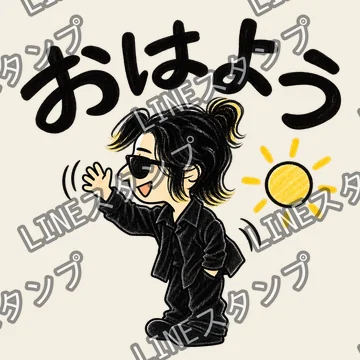
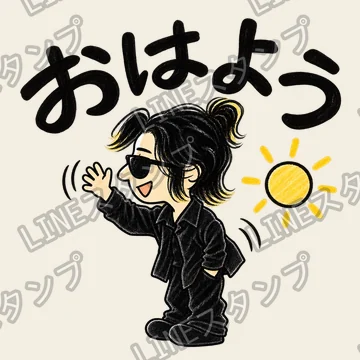
SUZURI の札を店にし、透かしを薄くし、LINEの欄が何を集めているか言うようにした (#707)
* LINEスタンプの透かしは、読める範囲でいちばん薄くする

あやと（2026-10-08）「LINEスタンプの透かしが濃すぎる。薄くて良い」。

0.62 は絵のほうが負けていた。0.62 / 0.45 / 0.35 / 0.25 / 0.18 で焼いて
並べ、100%（360px）と面に出る 150px の両方で「LINEスタンプ」が読める
いちばん薄いところとして 0.30 にした。0.25 より下は 150px で字が地に沈み、
見た人には汚れにしか見えない——透かしは「取ったものがそのまま使えない」
ためのものなので、読めなくなった時点で薄いのではなく効いていない。

対照（`drill()`）は、薄くしたぶんそのままでは意味を失う。白地で動く画素の
割合は**字の形**で決まるので、INK 0.1 でも 0.9 でも 0.10〜0.13 のまま動かず、
割合だけを見る対照は透かしをいくら薄くしても通ってしまう。濃さは別の数
——動いた画素1つあたりの差の平均——に出るので、そちらを足して幅で挟んだ。
しきい値 24 は下げない。下げると、ほとんど動いていない画素まで数えて、
透かしの載っていない絵が素通りする。

元の絵そのものを両側に当てる足も足した。平らな白だけで見ていると、
「0 と出る」のが地の平らさのおかげなのか判定が効いているからなのかが
分からない。

Claude-Session: https://claude.ai/code/session_01LuEuARCBiX8w9R3CwPpCH6

* SUZURI の札が指すものを、商品から店そのものに変える

あやと（2026-10-08、2回目）「だからイギリストートバッグだけじゃないよ。
そのリンク。」

1回目は「トートバッグのほかに、キャラクターのグッズもあります。」という字を
足して終わっていた。**札の題は「イギリスのトートバッグ」のままで、写真も
トート1枚。** 字で否定して、絵で肯定していた。読む人が先に見るのは絵と題
なので、字に何と書いてあっても「トートバッグ1枚の店」に見える。

題を店（あやとの店）に変え、写真を2枚にした。2枚目は SUZURI 自身が作って
いる店の絵の右側だけを切ったもので、**よその会社のマークが入る左半分は
切り落としてある。** 品ぞろえも値段も個数も、字にはしない——どれも向こうが
持っていて、焼けば変わった日から嘘になる。「4種類あります」も同じ理由で
書かない。

枚数は決め打ちにしない。`shots` に1行足せば並ぶようにしてある。
PC では写真が板の幅いっぱい（403px角）に伸びて同じ面のほかの札より大きく
なったので、幅に上限を置いた。店は主役ではない。

Claude-Session: https://claude.ai/code/session_01LuEuARCBiX8w9R3CwPpCH6

* LINEスタンプの欄が、何を集めているのかを言っていなかった

あやと（2026-10-08、#701）「一旦住人は25人で良い。あやとを+4にするために
みんなの意見を集めてるフェーズ。」

頭が「あやとの11枚。どれがいいか、押して教えてください。」だったので、
**11枚の中から選ぶ話**にしか読めなかった。いいねも「ほかのセリフを出す」の
付箋ももう出ているのに、それが何のために在るのかが画面に無い。

頭を「あと◯つ、セリフが決まっていません」から始めて、押すことと出すことの
[…]

diff --git a/site/content/goods.ts b/site/content/goods.ts
@@ -190,28 +190,78 @@ export const LINE_STAMPS: LineStamp[] = [
 export const LINE_WORDS = LINE_STAMPS.map((s) => s.line);
 
 /**
+ * あやとのぶんを、最後に何枚にするか。
+ *
+ * あやとの言葉（2026-10-08、#701）:
+ *
+ * > 一旦住人は25人で良い。あやとを+4にするためにみんなの意見を集めてるフェーズ。
+ *
+ * **募集している枚数を手で書かない。** 「あと4つ」と面に焼くと、絵が1枚
+ * 届いた日から嘘になる（`LINE_STAMPS` は増えるのに、4 は誰も直さない）。
+ * ここに**行き先の数**だけを置いて、残りは `LINE_WANT - LINE_STAMPS.length`
+ * で出す。1枚足せば勝手に3になり、埋まれば勝手に0になる。
+ *
+ * **住人のぶんは、ここには入れない。** この面が集めているのは
+ * あやとのセリフだけで、合計が何枚になるかは読む人の用事ではない。
+ */
+export const LINE_WANT = 15;
+
+/**
+ * SUZURI の店の写真1枚。
+ *
+ * **1枚でも「その1枚しか無い店」に見えないように、2枚以上並べる**（下）。
+ */
+export type ShopShot = {
+  src: string;
+  /** 読み上げと、絵が落ちたときに出る字。**品ぞろえを数えない** */
+  alt: string;
+  w: number;
+  h: number;
+};
+
+/**
  * SUZURI の店。**島の外へ出る。**
  *
- * サムネはあやとが選んだトートバッグの写真。
+ * ## 字で否定して、絵で肯定しない
  *
- * **品ぞろえも値段も書かない。** どちらも向こうが持っていて、こちらに
- * 焼くと変わった日から嘘になる（`docs/island-standards.md` 16章）。
- * 書いてよいのは、写真に写っているものと、押したら何が起きるかだけ。
+ * あやと（2026-10-08、**2回目**）: 「だからイギリストートバッグだけじゃないよ。
+ * そのリンク。」
+ *
+ * 1回目は「トートバッグのほかに、キャラクターのグッズもあります。」という字を
+ * 足しただけだった。**札の題は「イギリスのトートバッグ」のままで、写真もトート
+ * 1枚。** 読む人が先に見るのは絵と題なので、字が何と書いてあっても
+ * 「トートバッグ1枚の店」に見える。
+ *
+ * だから、札が指すものを**商品から店そのもの**に変えた。
+ * 題は店、写真は2枚以上。
+ *
+ * ## 品ぞろえも値段も個数も書かない
+ *
+ * どれも向こうが持っていて、こちらに焼くと変わった日から嘘になる
+ * （`docs/island-standards.md` 16章）。「4種類あります」も書かない——
+ * **1つ増えた日から嘘。** 書いてよいのは、写真に写っているものと、
+ * 押したら何が起きるかだけ。
  */
 export const SUZURI = {
   href: "https://suzuri.jp/ayato_arigato",
-  thumb: "/goods/suzuri-tote.webp",
-  w: 560,
-  h: 560,
-  /** 写真の中身。**見えているものだけを言う** */
-  cap: "イギリスのトートバッグ",
   /**
-   * 何が買えるか。
+   * 店に並んでいるもの。**2枚以上。1枚だと、その1枚しか無い店に見える。**
    *
-   * **品ぞろえも値段も書かない**——向こうが持っているので、焼くと変わった日から嘘になる。
-   * 書くのは「トートバッグだけではない」ことまで（あやと 2026-10-08
-   * 「スズリはトートバッグだけじゃなくてキャラクターのグッズとかも買えます」）。
-   * 写真が1枚だと、その1枚しか無い店に見える。
+   * 2枚目は SUZURI 自身が作っている店の絵（`og.suzuri.jp/users/2272949.webp`。
+   * 1200x630）の**右側だけ**を切ったもの（左上 669,102 ／ 右下 1126,559）。
+   * **左半分と、左上に出る印は切り落としてある**——よその会社のマークを
+   * 島の面に焼かない。
+   */
+  shots: [
+    { src: "/goods/suzuri-tote.webp", alt: "イギリスの地図が入ったトートバッグ", w: 560, h: 560 },
+    { src: "/goods/suzuri-goods.webp", alt: "キャラクターの缶バッジ・ステッカー・アクリルキーホルダー", w: 560, h: 560 },
+  ] satisfies ShopShot[],
+  /** 札の題。**商品ではなく、店そのもの** */
+  cap: "あやとの店",
+  /**
+   * 何が買えるか。**字はそのまま残す**（あやと 2026-10-08「スズリはトート
+   * バッグだけじゃなくてキャラクターのグッズとかも買えます」）。
+   * 直したのは、この字と食い違っていた**題と写真**のほう。
    */
   what: "トートバッグのほかに、キャラクターのグッズもあります。",
   /** 押したら何が起きるか */

diff --git a/site/app/goods/page.tsx b/site/app/goods/page.tsx
@@ -6,7 +6,7 @@ import Icon, { type IconName } from "@/components/ui/Icon";
 import Notes from "@/components/live/Notes";
 import PageShell, { PageHead } from "@/components/ui/PageShell";
 import StampVotes from "@/components/goods/StampVotes";
-import { LINE_STAMPS, LINE_WORDS, STICKERS, SUZURI } from "@/content/goods";
+import { LINE_STAMPS, LINE_WANT, LINE_WORDS, STICKERS, SUZURI } from "@/content/goods";
 
 import "./goods.css";
 
@@ -94,6 +94,14 @@ function Say({ theme, title, lead, omit }: {
     </div>
   );
 }
+
+/**
+ * あやとのセリフで、まだ決まっていない数。
+ *
+ * **手で書かない。** 絵が1枚届いた日に、面の「あと◯つ」だけが古くなる。
+ * 埋まったら 0 になって、募集の字そのものが消える。
+ */
+const LINE_LEFT = Math.max(0, LINE_WANT - LINE_STAMPS.length);
 
 export default function GoodsPage() {
   return (
@@ -214,8 +222,18 @@ export default function GoodsPage() {
           title="LINEスタンプ"
           tag="検討中"
           /* **「絵はこれから」と書かない。** 絵が届いたので、書いたままだと
-             その日から嘘になる。数は `LINE_STAMPS` から出す（足した日に直し忘れない） */
-          lead={`あやとの${LINE_STAMPS.length}枚。どれがいいか、押して教えてください。`}
+             その日から嘘になる。数は `LINE_STAMPS` から出す（足した日に直し忘れない）。
+
+             **何を集めている欄なのかを、頭で言う。** 「あやとの11枚。どれがいいか」
+             だけだと、11枚から選ぶ話にしか読めない。集めているのは、まだ決まって
+             いないぶんのセリフのほう（あやと #701）。
+             残りの数も手で書かない（`content/goods.ts` の `LINE_WANT`）。
+             埋まったら募集の字は出さない——0枚を募る字が残らないように */
+          lead={
+            LINE_LEFT > 0
+              ? `あと${LINE_LEFT}つ、セリフが決まっていません。いいと思ったものを押して、ほしい一言を出してください。`
+              : `あやとの${LINE_STAMPS.length}枚。いいと思ったものを押して教えてください。`
+          }
         >
           <StampVotes />
           <Say
@@ -239,25 +257,36 @@ export default function GoodsPage() {
               新しいタブで開いて、こちらの窓への参照は渡さない
               （`noopener`。`noreferrer` で、どこから来たかも渡さない）。
               `prefetch` の見張り（`prefetch_selftest.mjs`）は `<Link>` を
-              数えているので、外へ出るものは素の `<a>` のままにする */}
+              数えているので、外へ出るものは素の `<a>` のままにする。
+
+              **写真は横に並べて、題は店の名前。** 1枚だけ・題が商品名だと、
+              その商品1つしか無い店に見える（あやと 2026-10-08、2回目の指摘）。
+              枚数は決め打ちしない——`shots` に1行足せば並ぶ */}
           <a
-            className="gd-go gd-out"
+            className="gd-go gd-out gd-shop"
             href={SUZURI.href}
             target="_blank"
             rel="noopener noreferrer"
           >
-            <img
-              src={SUZURI.thumb}
-              alt=""
-              width={SUZURI.w}
-              height={SUZURI.h}
-              loading="lazy"
-            />
-            <span>
-              <b>{SUZURI.cap}</b>
-              <i>{SUZURI.note}</i>
+            <span className="gd-shopshots">
+              {SUZURI.shots.map((shot) => (
+                <img
+                  key={shot.src}
+                  src={shot.src}
+                  alt={shot.alt}
+                  width={shot.w}
+                  height={shot.h}
+                  loading="lazy"
+                />
+              ))}
             </span>
-            <Icon name="external" size={16} />
+            <span className="gd-shopside">
+              <span>
+                <b>{SUZURI.cap}</b>
+                <i>{SUZURI.note}</i>
+              </span>
+              <Icon name="external" size={16} />
+            </span>
           </a>
         </Sec>
       </div>

diff --git a/site/app/goods/goods.css b/site/app/goods/goods.css
@@ -125,15 +125,47 @@
 }
 .gd-go > svg { flex: none; }
 
-/* 外の店。写真を1枚だけ添える。**押すと出ていくことは印（external）が言う** */
-.gd-out > img {
-  flex: none;
-  width: 92px;
-  height: 92px;
+/* 外の店。**写真は横に並べる。**
+   1枚だけ添えていたころは、その1枚の商品しか無い店に見えていた
+   （あやと 2026-10-08、2回目の指摘）。
+   押すと出ていくことは印（external）が言う。 */
+.gd-shop {
+  flex-direction: column;
+  align-items: stretch;
+  gap: var(--sp-3);
+}
+
+/* 枚数は決め打ちしない。`auto-fit` なので、`shots` を増やしても
+   1行に収まるぶんだけ細くなる（2枚でも3枚でも同じ書き方で並ぶ） */
+.gd-shopshots {
+  display: grid;
+  grid-template-columns: repeat(auto-fit, minmax(0, 1fr));
+  gap: var(--sp-2);
+  /* PC では、写真が板の幅いっぱい（403px角）に伸びて、
+     同じ面のほかの札より大きくなっていた。**店は主役ではない。**
+     スマホ（390px）では板のほうが狭いので、ここは効かない */
+  max-width: 360px;
+}
+.gd-shopshots > img {
+  display: block;
+  width: 100%;
+  height: auto;
+  aspect-ratio: 1 / 1;
   border-radius: var(--r-0);
   object-fit: cover;
   background: var(--paper-2);
 }
+
+.gd-shopside {
+  display: flex;
+  align-items: center;
+  gap: var(--sp-3);
+}
+.gd-shopside > span {
+  flex: 1 1 auto;
+  min-width: 0;
+}
+.gd-shopside > svg { flex: none; }
 
 /* ---- ステッカー --------------------------------------------------------- */
 

diff --git a/tools/goods/stampbake.py b/tools/goods/stampbake.py
@@ -75,8 +75,32 @@ SIDE = 360
 TILE_W = 0.62
 #: 型を置く間隔（型の幅・高さに対する割合）。1.0 だとぴったり並ぶ。
 STEP_X, STEP_Y = 1.02, 0.78
-#: 透かしの濃さ。0〜1。絵の上で読めて、絵が潰れない濃さ。
-INK = 0.62
+#: 透かしの濃さ。0〜1。**読めるいちばん薄いところ。**
+#:
+#: あやとの言葉（2026-10-08）: 「LINEスタンプの透かしが濃すぎる。薄くて良い」。
+#: 0.62 / 0.45 / 0.35 / 0.25 / 0.18 で焼いて並べ、**100%（360px）と、面に出る
+#: 150px の両方で「LINEスタンプ」が読める**いちばん薄いところとして 0.30 にした。
+#: 0.25 より下は 150px で字が地に沈んで、見た人には汚れにしか見えない——
+#: 透かしは「取ったものがそのまま使えない」ためのものなので、
+#: **読めなくなった時点で、薄いのではなく効いていない。**
+INK = 0.30
+
+#: 透かしで「動いた」とみなす1画素の差（RGB の差の合計）。**下げない。**
+#: 下げると、ほとんど動いていない画素まで数えて、
+#: 透かしの載っていない絵が対照を素通りする。
+#: 濃さを薄くしたぶんは、`MOVED` を下げるのではなく `STRONG`（下）で見る。
+MOVED = 24
+
+#: 白地に置いたとき、動く画素の**割合**。これは**字の形**で決まるので、
+#: 濃さを変えてもほとんど動かない（INK 0.1〜0.9 で 0.102〜0.132）。
+#: つまり**ここだけ見ても濃さは分からない。** 見ているのは「置いたかどうか」。
+COVER = (0.08, 0.20)
+
+#: 動いた画素の、1画素あたりの差の平均。**濃さはこちらに出る**（INK に比例する。
+#: 実測 0.20→88 / 0.25→108 / 0.30→127 / 0.35→147 / 0.45→186 / 0.62→251）。
+#: 幅は INK ≒ 0.25〜0.35 ぶん。**濃さを変えたらここも一緒に直す**——
+#: 直さずに通るなら、それは濃さを見ていない対照。
+STRONG = (105.0, 150.0)
 
 #: 絵がまだ無いあいだ、枠に出しておく板の地の色（`app/goods/goods.css` の紙と同じ系）。
 PENDING_BG = (244, 238, 226)
@@ -138,46 +162,100 @@ def bake_one(name: str, src: Path | None) -> Path:
     return dst
 
 
-def inked(before: Image.Image, after: Image.Image) -> float:
-    """透かしで動いた画素の割合。**0 なら焼けていない。**"""
+def inked(before: Image.Image, after: Image.Image) -> tuple[float, float]:
+    """透かしで動いた画素の **割合** と、動いた画素1つあたりの **差の平均**。
+
+    **両方返すのは、割合だけでは濃さが見えないから。** 字の形は濃さを変えても
+    同じなので、割合は INK 0.1 でも 0.9 でも 0.10〜0.13 のまま。
+    薄くしすぎたことに気づけるのは平均のほう（`STRONG`）。
+
+    **どちらも 0 なら、1画素も動いていない＝焼けていない。**
+    """
     # `getdata()` は Pillow 14 で消える。**版で名前の変わらない `tobytes()`**
     # を使う（CI と手元で Pillow の版が違っても同じ数が出る）
     a = before.convert("RGB").tobytes()
     b = after.convert("RGB").tobytes()
-    n = sum(
-        1 for i in range(0, len(a), 3)
-        if abs(a[i] - b[i]) + abs(a[i + 1] - b[i + 1]) + abs(a[i + 2] - b[i + 2]) > 24
-    )
-    return n / (before.width * before.height)
+    moved = 0
+    total = 0
+    for i in range(0, len(a), 3):
+        d = (abs(a[i] - b[i]) + abs(a[i + 1] - b[i + 1])
+             + abs(a[i + 2] - b[i + 2]))
+        if d > MOVED:
+            moved += 1
+            total += d
+    px = before.width * before.height
+    return moved / px, (total / moved if moved else 0.0)
+
+
+def band(name: str, got: tuple[float, float]) -> list[str]:
+    """割合と濃さが、どちらも幅の中にいるか。**外れたぶんを字にして返す。**"""
+    cover, strong = got
+    out = []
+    if not COVER[0] < cover < COVER[1]:
+        out.append(f"{name}: 動いた画素 {cover:.4f}（{COVER[0]}〜{COVER[1]} を見込む）")
+    if not STRONG[0] < strong < STRONG[1]:
+        out.append(f"{name}: 濃さ {strong:.1f}（{STRONG[0]}〜{STRONG[1]} を見込む）")
+    return out
 
 
 def drill() -> bool:
     """対照。**本物を1枚も焼く前に、焼けていないものを見分けられるかを見る。**
 
-    足は3本。1本でも外れたら、本物の数字を1つも出さずに帰る。
+    足は4本。1本でも外れたら、本物の数字を1つも出さずに帰る。
+
+    見るのは「置いたか」だけではなく「**どれだけ濃く**置いたか」。
+    割合（`COVER`）は字の形で決まるので濃さを変えても動かず、
+    **割合だけの対照は、透かしをいくら薄くしても通ってしまう。**
     """
     ok = True
-    # (1) 平らな地に置いたら、字のぶんの画素が動く
+    bad: list[str] = []
+
+    # (1) 平らな地に置いたら、字のぶんの画素が、その濃さで動く
     flat = Image.new("RGBA", (SIDE, SIDE), (255, 255, 255, 255))
     got = paint(flat)
-    r = inked(flat, got)
-    if not 0.04 < r < 0.60:
-        print(f"対照1 外れ: 白地に置いて動いた画素 {r:.3f}（0.04〜0.60 を見込む）")
-        ok = False
-    # (2) 置かなければ動かない（判定そのものが何にでも反応していないか）
-    if inked(flat, flat) != 0:
-        print("対照2 外れ: 同じ絵どうしで差が出た")
-        ok = False
+    one = inked(flat, got)
+    bad += band("対照1 白地", one)
+
+    # (2) 置かなければ1画素も動かない（判定そのものが何にでも反応していないか）
+    if inked(flat, flat) != (0.0, 0.0):
+        bad.append("対照2: 同じ絵どうしで差が出た")
+
     # (3) webp にして読み直しても残る（**配るのは webp**）
     import io
     buf = io.BytesIO()
     got.convert("RGB").save(buf, "WEBP", quality=86, method=6)
     back = Image.open(io.BytesIO(buf.getvalue()))
-    r2 = inked(flat, back)
-    if not 0.04 < r2 < 0.60:
-        print(f"対照3 外れ: webp にしたら動いた画素が {r2:.3f}")
+    two = inked(flat, back)
+    bad += band("対照3 webp", two)
+
+    # (4) **本物の絵で、焼いた／焼いていないが見分けられるか。**
+    #     平らな白だけで見ていると、「0 と出る」のが地の平らさのおかげなのか
+    #     判定が効いているからなのか分からない。元の絵そのものを両側に当てる。
+    three = (0.0, 0.0)
+    src = next((p for _, p in sources() if p), None)
+    if src is None:
+        bad.append("対照4: 元の絵が1枚も無いので、焼いた／焼いていないを比べられない")
+    else:
+        raw = square(Image.open(src), SIDE)
+        if inked(raw, raw) != (0.0, 0.0):
+            bad.append(f"対照4: 焼いていない絵どうしで差が出た（{src.name}）")
+        three = inked(raw, paint(raw))
+        if three[0] < 0.05 or three[1] < STRONG[0] - 20:
+            bad.append(
+                f"対照4: 焼いた絵と元の絵の差が小さすぎる（{src.name} "
+                f"{three[0]:.4f} / {three[1]:.1f}）"
+            )
+
+    for b in bad:
+        print(b)
         ok = False
-    print(f"対照: 白地 {r:.3f} / webp {r2:.3f} / 同じ絵 0.000")
+    print(
+        f"対照: 白地 {one[0]:.4f}/{one[1]:.1f}"
+        f" · webp {two[0]:.4f}/{two[1]:.1f}"
+        f" · 元の絵 {three[0]:.4f}/{three[1]:.1f}"
+        f" · 焼いていない 0.0000/0.0"
+        f"（割合 {COVER[0]}〜{COVER[1]} / 濃さ {STRONG[0]}〜{STRONG[1]}）"
+    )
     return ok
 
 
